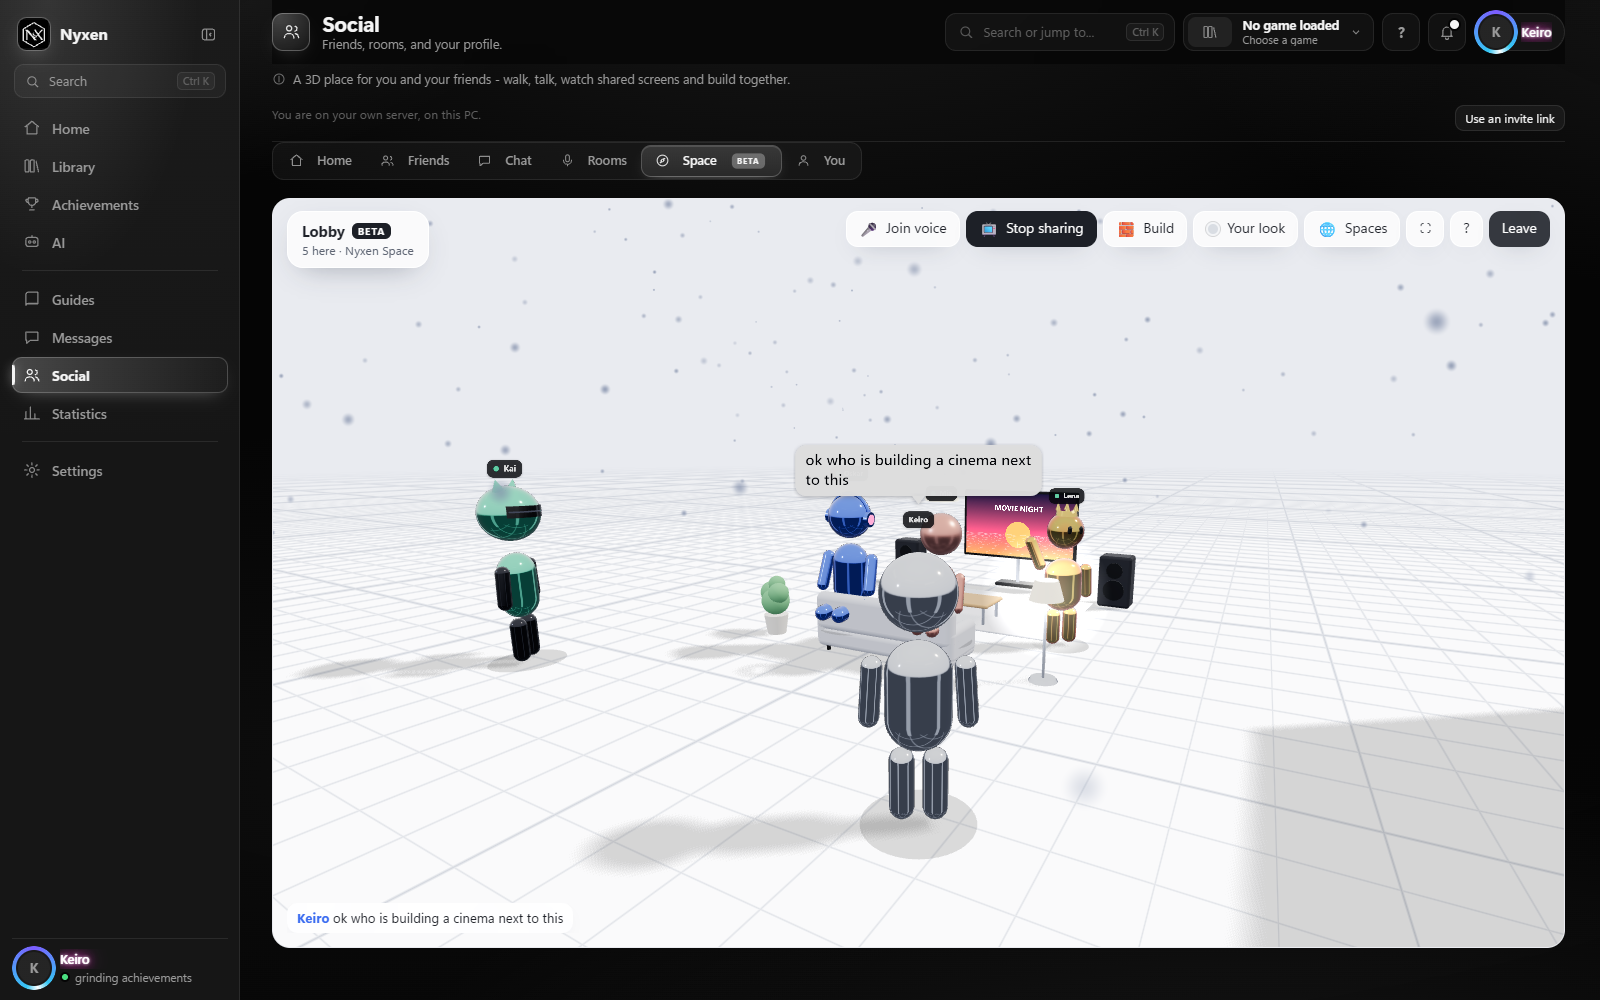
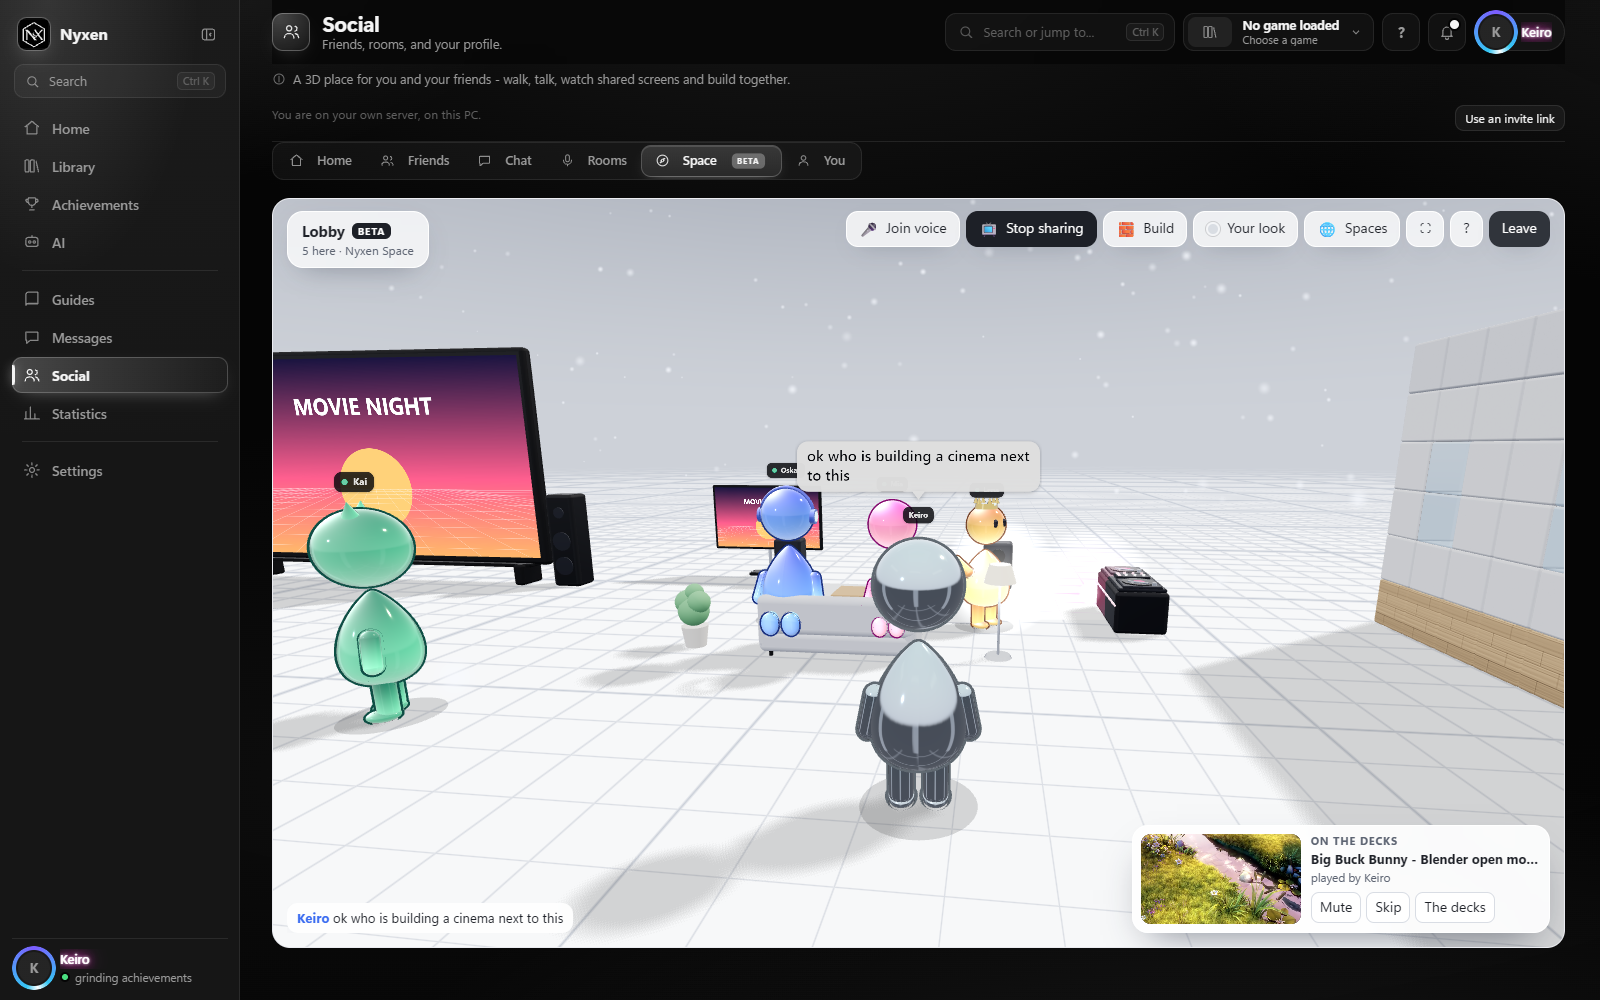
Publish the Nyxen site
Static build for GitHub Pages: the size and SHA-256 of the
installer are measured at build time rather than typed, the
screenshot gallery is generated from the shots folder, and the
download points at the Release rather than a file in the repo.

diff --git a/index.html b/index.html
@@ -551,11 +551,11 @@
       you already have - now in 3D blocks. Retro achievements. Your friends, and a 3D
       Space to hang out in. One Windows app that needs no account to be useful.</p>
     <div class="cta">
-      <a class="btn magnet" href="https://github.com/Kerioxsx/nyxen/releases/download/v1.12.0/NyxenSetup.exe"><span>Download for Windows</span>
+      <a class="btn magnet" href="https://github.com/Kerioxsx/nyxen/releases/download/v1.13.0/NyxenSetup.exe"><span>Download for Windows</span>
         <span class="arw" aria-hidden="true">&rarr;</span></a>
       <a class="btn ghost magnet" href="#look"><span>See it first</span></a>
     </div>
-    <p class="meta">Version 1.12.0 &middot; 40.6 MB &middot; Windows 10 and 11
+    <p class="meta">Version 1.13.0 &middot; 40.6 MB &middot; Windows 10 and 11
       &middot; no administrator rights needed</p>
     <div class="news">
       <a href="#s-tray"><b>New</b>Nyxen in the tray</a>
@@ -588,7 +588,7 @@
   </div>
 
   <section id="new">
-    <p class="eyebrow rise">New in 1.12.0</p>
+    <p class="eyebrow rise">New in 1.13.0</p>
     <h2 class="rise">The biggest update yet</h2>
     <p class="lead rise">Everything below is in the build on this page - click a picture to see it full size.</p>
 
@@ -629,19 +629,20 @@
     </div>
 
     <div class="spot flip rise" id="s-space">
-      <div class="shotbox" data-full="shots/space.png"><img src="shots/space.png" alt="Chrome figures around a couch in a white 3D world, watching a shared screen on a TV" loading="lazy">
+      <div class="shotbox" data-full="shots/space.png"><img src="shots/space.png" alt="Glossy buddies around a couch and DJ decks under a grey sky, with a shared screen on the TV" loading="lazy">
         <div class="pip"><img src="shots/space_build.png" alt="Building a brick house, a shop and a road in Nyxen Space" loading="lazy"></div></div>
       <div>
         <span class="kick beta">Beta</span>
         <h3>Nyxen Space: hang out in 3D</h3>
-        <p>A tab in Social: a white world with a grid floor and a soft sun - or a night one - where you and
-          your friends walk around as tall chrome figures with floating heads, dressed the way you like.</p>
+        <p>A tab in Social: a white grid floor under a soft grey sky - or a night one - where you and your
+          friends walk around as glossy buddies with floating heads, like the old messenger icon, dressed the way you like.</p>
         <ul>
-          <li>Your look: any chrome colour, mirror, satin, oil-slick or two-tone, height, build, face and a hat</li>
+          <li>Your look: any colour, glossy, jelly, two-tone, chrome or oil-slick, height, build, face and a hat</li>
           <li>Talk: a real voice call, quieter the further away people stand - and chat bubbles over heads</li>
-          <li>Sit on the couch and watch whoever shares their screen on the TV</li>
-          <li>Build like a city builder: whole walls and rooms in one drag, roads, windows, lamps, cars,
-            and ready-made houses, shops, towers and parks</li>
+          <li>DJ decks: paste any song link and everyone there hears it, in time - louder near the decks</li>
+          <li>Sit on the couch and watch whoever shares their screen on the TV - or on a cinema screen</li>
+          <li>Build like a city builder, walking or from a top view: walls and rooms in one drag, roof slopes,
+            columns, roads, lamps, cars, ready-made buildings - and Move to rearrange anything</li>
           <li>Make your own spaces, light or dark, and everything you build stays</li>
         </ul>
       </div>
@@ -700,8 +701,8 @@
       <div class="card rise">
         <span class="tag">New</span>
         <h3>Nyxen Space (beta)</h3>
-        <p>A 3D room for friends: chrome figures, voice that fades with distance, a couch, a TV that
-          shows whoever shares their screen, and building together.</p>
+        <p>A 3D room for friends: glossy buddies, voice that fades with distance, DJ decks for music,
+          a couch, a TV and a cinema screen for shared screens, and building together.</p>
       </div>
 
       <div class="card rise">
@@ -894,7 +895,7 @@
           <li>The Nyxen AI assistant</li>
           <li>52 themes, your own accent colour and font</li>
         </ul>
-        <a class="btn ghost" href="https://github.com/Kerioxsx/nyxen/releases/download/v1.12.0/NyxenSetup.exe"><span>Download free</span></a>
+        <a class="btn ghost" href="https://github.com/Kerioxsx/nyxen/releases/download/v1.13.0/NyxenSetup.exe"><span>Download free</span></a>
       </div>
       <div class="card plan best">
         <div class="pn">Nyxen Eclipse</div>
@@ -961,11 +962,11 @@
     <p class="eyebrow rise">Download</p>
     <h2 class="rise">One file. Open it, click Install, and it launches.</h2>
     <div class="cta rise" style="justify-content:flex-start">
-      <a class="btn magnet" href="https://github.com/Kerioxsx/nyxen/releases/download/v1.12.0/NyxenSetup.exe"><span>NyxenSetup.exe &middot; 40.6 MB</span>
+      <a class="btn magnet" href="https://github.com/Kerioxsx/nyxen/releases/download/v1.13.0/NyxenSetup.exe"><span>NyxenSetup.exe &middot; 40.6 MB</span>
         <span class="arw" aria-hidden="true">&darr;</span></a>
       <a class="btn ghost magnet" href="sha256.txt"><span>Checksum</span></a>
     </div>
-    <p class="meta">SHA-256 <code>f7bf90fb7820e73b4ec73d3034313e45c42f16c0785724b54daa609a51edd07e</code><br>
+    <p class="meta">SHA-256 <code>73c6631fd77ed6516264a5820bb6a787205238f9ee72135351e019eee7246d00</code><br>
       Check it with <code>certutil -hashfile NyxenSetup.exe SHA256</code> —
       built into Windows, nothing to install.</p>
     <div class="note rise" style="margin-top:22px">
@@ -979,9 +980,9 @@
   <footer>
     <span class="mark" style="width:26px;height:26px;border-radius:8px">
       <img src="logo.svg" alt="" width="26" height="26"></span>
-    <span>Nyxen 1.12.0 — made by Antonio</span>
+    <span>Nyxen 1.13.0 — made by Antonio</span>
     <a href="terms.html">Terms</a>
-    <a href="https://github.com/Kerioxsx/nyxen/releases/download/v1.12.0/NyxenSetup.exe">Download</a>
+    <a href="https://github.com/Kerioxsx/nyxen/releases/download/v1.13.0/NyxenSetup.exe">Download</a>
     <span class="right">Not affiliated with Valve, Mojang, Microsoft, Modrinth,
       Thunderstore, GameBanana, RetroAchievements or libretro.</span>
   </footer>

diff --git a/terms.html b/terms.html
@@ -98,7 +98,7 @@
   </a>
   <nav>
     <a href="index.html">Home</a>
-    <a href="https://github.com/Kerioxsx/nyxen/releases/download/v1.12.0/NyxenSetup.exe">Download</a>
+    <a href="https://github.com/Kerioxsx/nyxen/releases/download/v1.13.0/NyxenSetup.exe">Download</a>
   </nav>
 </header>
 
@@ -314,7 +314,7 @@ position for a free project made by one person.</p>
 <footer>
   <span>Nyxen 1.6.1</span>
   <a href="index.html">Home</a>
-  <a href="https://github.com/Kerioxsx/nyxen/releases/download/v1.12.0/NyxenSetup.exe">Download</a>
+  <a href="https://github.com/Kerioxsx/nyxen/releases/download/v1.13.0/NyxenSetup.exe">Download</a>
   <a href="sha256.txt">Checksum</a>
 </footer>
 
